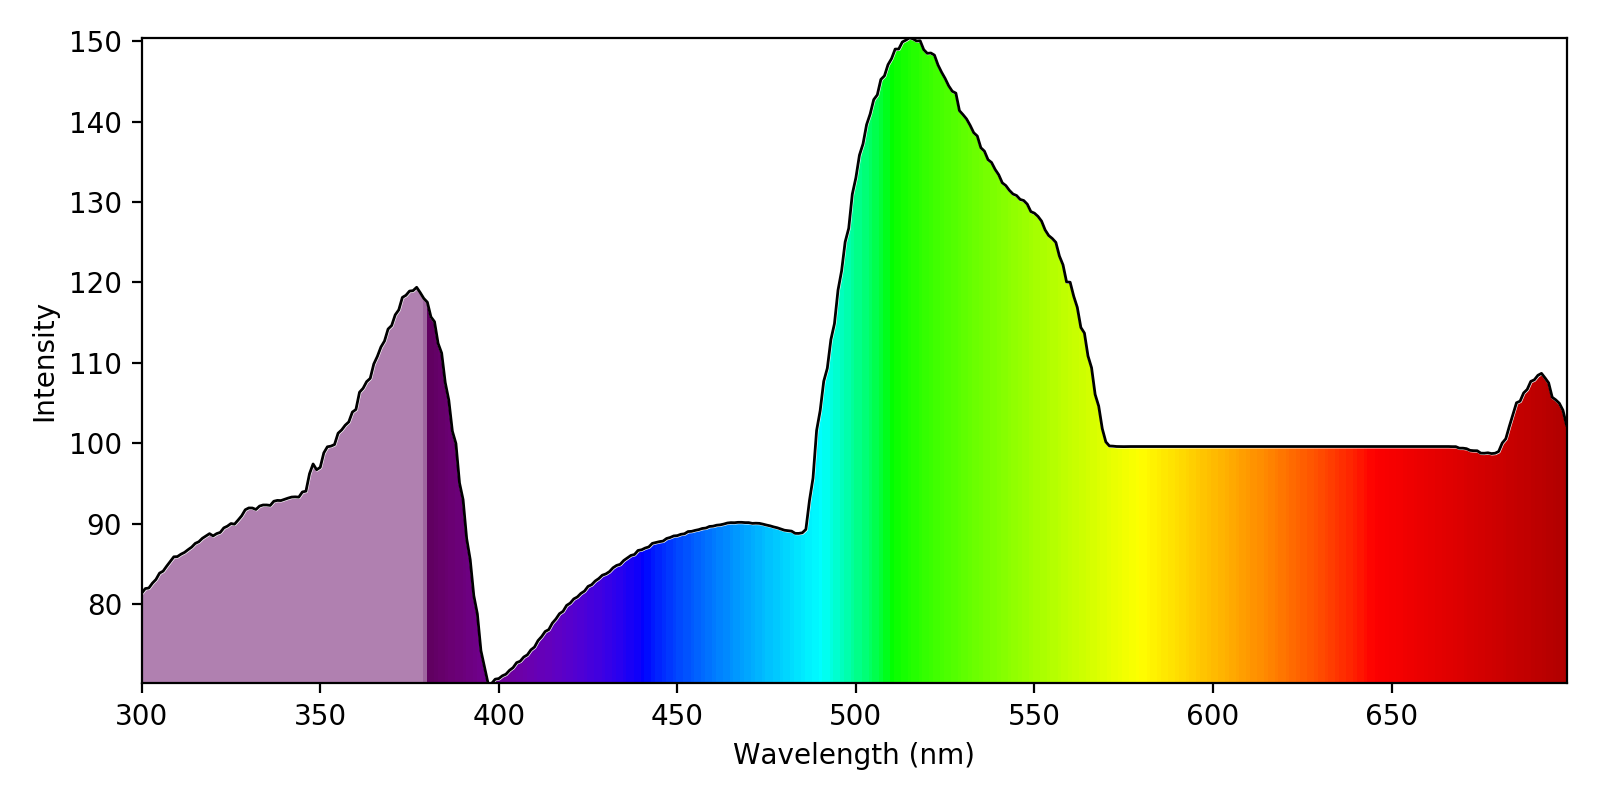
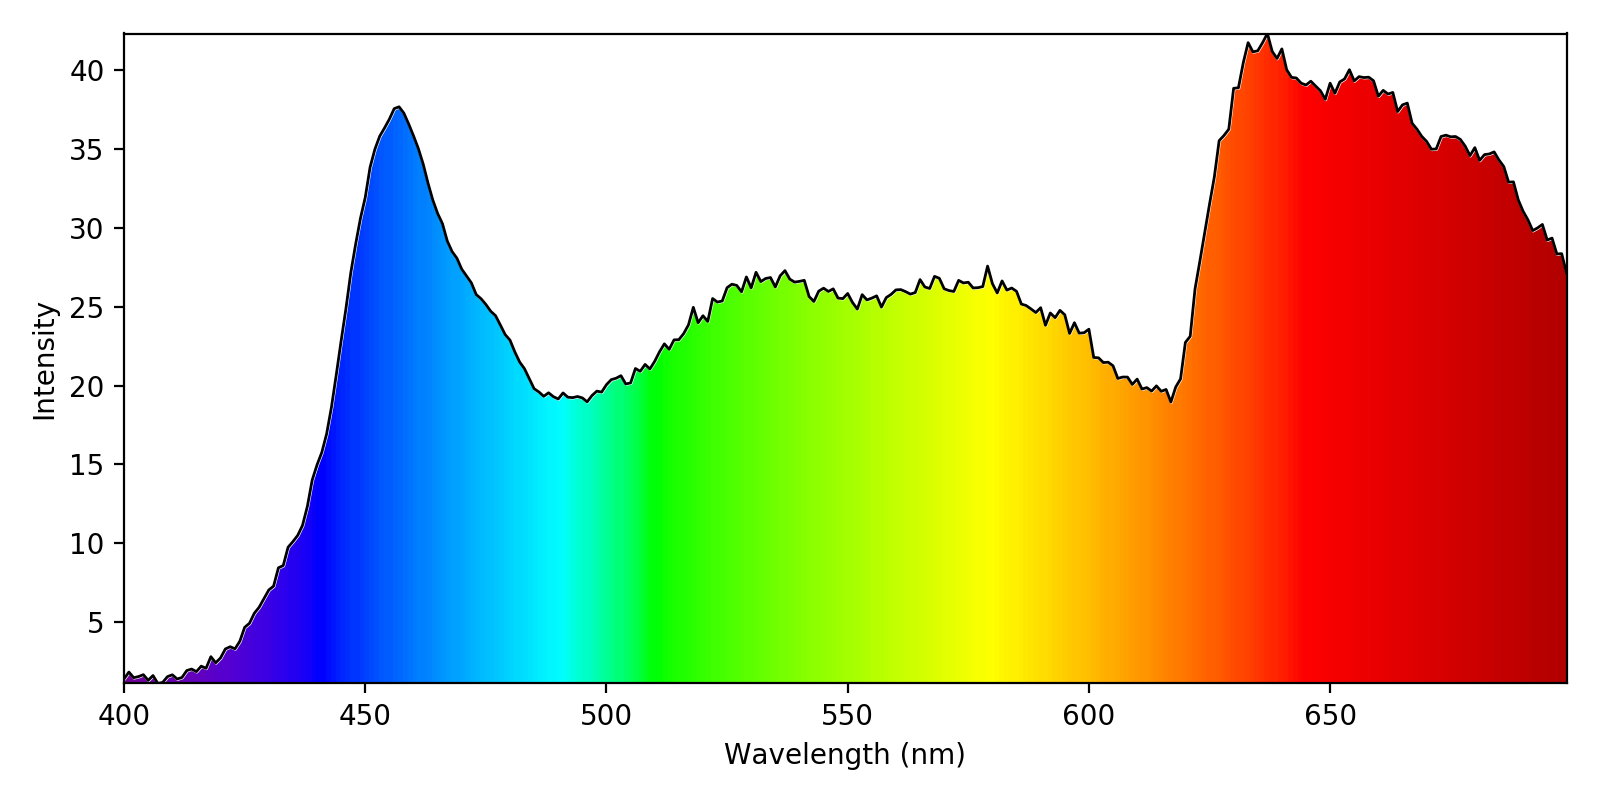
add pause to voltage colection

diff --git a/measurement_techniques/take_measurements/susman_spectro.py b/measurement_techniques/take_measurements/susman_spectro.py
@@ -13,17 +13,18 @@ import matplotlib.colors as colors
 from PIL import Image, ImageDraw, ImageFont
 
 raw_filename = r"C:\Users\ryans\Downloads\sunlight.jpg"
+raw_filename = r"C:\Users\ryans\Downloads\1U5hddy.jpg"
 im = np.asarray(Image.open(raw_filename))
 
 sliced_im = im[1100:1200, 970:1570]
 
 im = Image.fromarray(np.uint8(sliced_im)).convert('RGB')
 
-newsize = (400, im.size[1])
+newsize = (300, im.size[1])
 im = im.resize(newsize)
 
 imgplot = plt.imshow(im)
-plt.savefig('Sunlight.png', dpi=200)
+plt.savefig('raw.png', dpi=200)
 #plt.show()
 
 im = np.asarray(im)
@@ -39,9 +40,10 @@ for y in range(im.shape[0]):
 
 totals = (np.array(totals) / 255).tolist()
 
+totals.reverse()
 
 #plt.hist(totals)
-#plt.show()
+
 
 def wavelength_to_rgb(wavelength, gamma=0.8):
     ''' taken from http://www.noah.org/wiki/Wavelength_to_RGB_in_Python
@@ -96,7 +98,7 @@ def wavelength_to_rgb(wavelength, gamma=0.8):
     return (R, G, B, A)
 
 
-clim = (300, 700)
+clim = (400, 700)
 norm = plt.Normalize(*clim)
 wl = np.arange(clim[0], clim[1] + 1, 2)
 colorlist = list(zip(norm(wl), [wavelength_to_rgb(w) for w in wl]))
@@ -105,7 +107,7 @@ spectralmap = colors.LinearSegmentedColormap.from_list("spectrum", colorlist)
 fig, axs = plt.subplots(1, 1, figsize=(8, 4), tight_layout=True)
 
 mySpectra = {}
-mySpectra['wavelengths'] = np.arange(300, 700, 1)
+mySpectra['wavelengths'] = np.arange(400, 700, 1)
 mySpectra['intensities'] = totals
 
 wavelengths = mySpectra['wavelengths']
